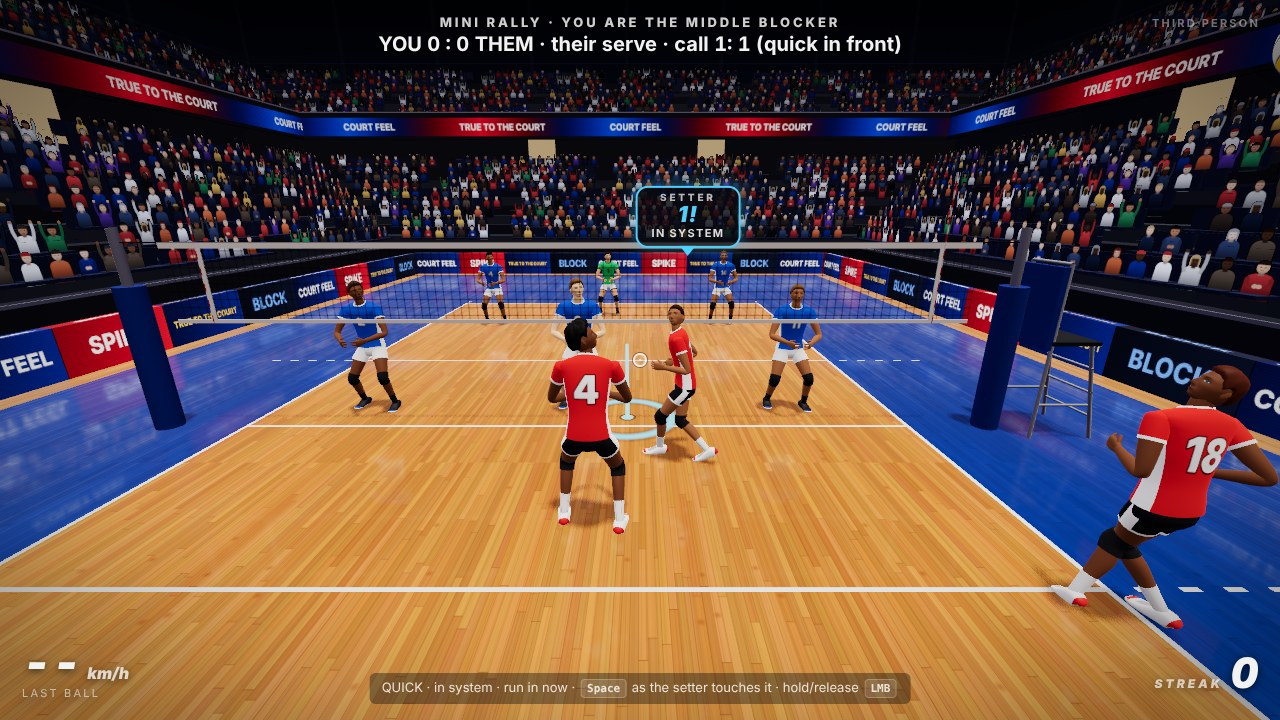
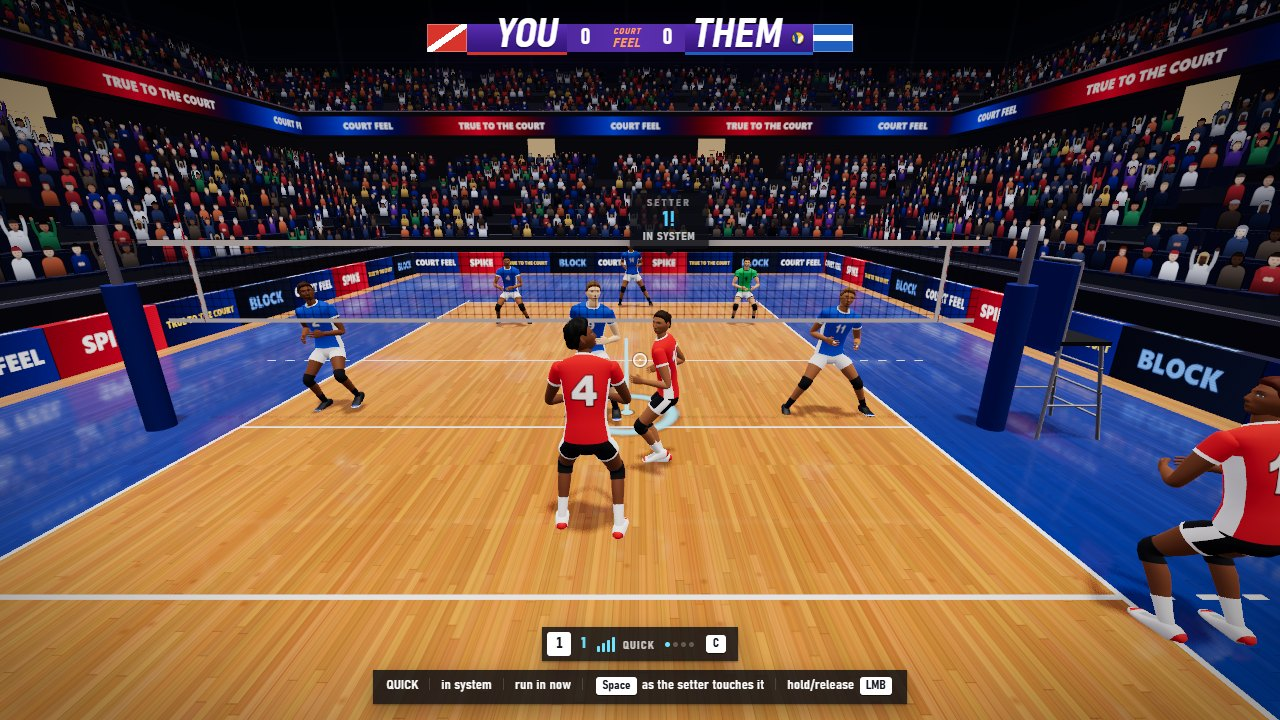
docs(screenshots): retaken with the VNL score bar and the point plate, and both looks side by side
The ten frames that showed the old HUD are retaken as real game frames (the autopilot and the manual clock, nothing staged on the HUD). New in the README gallery: a point in the VNL look and one in the Games look.

diff --git a/README.md b/README.md
@@ -72,7 +72,7 @@ Real frames from the game: no paint-overs, no staged cameras.
   </tr>
   <tr>
     <td width="50%" valign="top">
-      <img src="docs/screenshots/stuff-block-first-person.jpg" alt="First person block: both hands pressed over the net, the opposing hitter right in front, PERFECT 57 km/h Stuff">
+      <img src="docs/screenshots/stuff-block-first-person.jpg" alt="First person block: both hands pressed over the net, the opposing hitter right in front, PERFECT 56 km/h Stuff">
       <b>At the net.</b> Read the set, time the jump, press over. A stuff block, seen through the blocker's eyes.
     </td>
     <td width="50%" valign="top">
@@ -122,12 +122,22 @@ Real frames from the game: no paint-overs, no staged cameras.
   </tr>
   <tr>
     <td width="50%" valign="top">
-      <img src="docs/screenshots/phone-touch-controls.jpg" alt="Phone in landscape: joystick on the left, PASS, BLOCK, JUMP and HIT buttons on the right, set call chips at the top">
+      <img src="docs/screenshots/phone-touch-controls.jpg" alt="Phone in landscape: joystick on the left, PASS, BLOCK, JUMP and HIT buttons on the right, your routes as chips at the top">
       <b>On your phone.</b> A joystick for your feet, drag to aim, hold to jump and hold to swing. The timing windows are the same as on a keyboard.
     </td>
     <td width="50%" valign="top">
       <img src="docs/screenshots/start-screen.jpg" alt="Start screen, Train: the BETA tag under the name, the six drills in a list, the Spike Drill's panel with its own keys, the five positions to play it as, and PLAY; the venue, athlete and settings pills at the top right">
       <b>Pick a drill.</b> Each drill shows what it scores, its own keys and the position you play it as.
+    </td>
+  </tr>
+  <tr>
+    <td width="50%" valign="top">
+      <img src="docs/screenshots/hud-vnl-point.jpg" alt="Mini Rally in the VNL look: the score bar across the top, YOU 0 : 1 THEM, and under it a plate in their blue, KILL, POINT · THEM, the spike's trail still in the air">
+      <b>The score.</b> A score bar across the top, and under it who won the point and how, in their kit colour.
+    </td>
+    <td width="50%" valign="top">
+      <img src="docs/screenshots/hud-games-look.jpg" alt="Mini Rally in the Games look: a small score in the top-left corner, YOU 0 and THEM 1, the plate OUT, POINT · THEM under it">
+      <b>Or keep it small.</b> The Games look puts the score in the corner. Settings, Screen switches between the two.
     </td>
   </tr>
 </table>
@@ -987,7 +997,7 @@ venue for that visit without changing the saved one.
 <table>
   <tr>
     <td width="50%" valign="top">
-      <img src="docs/screenshots/venue-games-arena.jpg" alt="Games arena from the top of one end during a rally: a coral court on indigo, a rectangle of light hung over it, tiers of crowd in the dark with phone lights">
+      <img src="docs/screenshots/venue-games-arena.jpg" alt="Games arena from behind the receivers, looking up: a coral court on indigo, a rectangle of light hung over it, tiers of crowd in the dark with phone lights">
       <b>Games arena.</b>
     </td>
     <td width="50%" valign="top">
